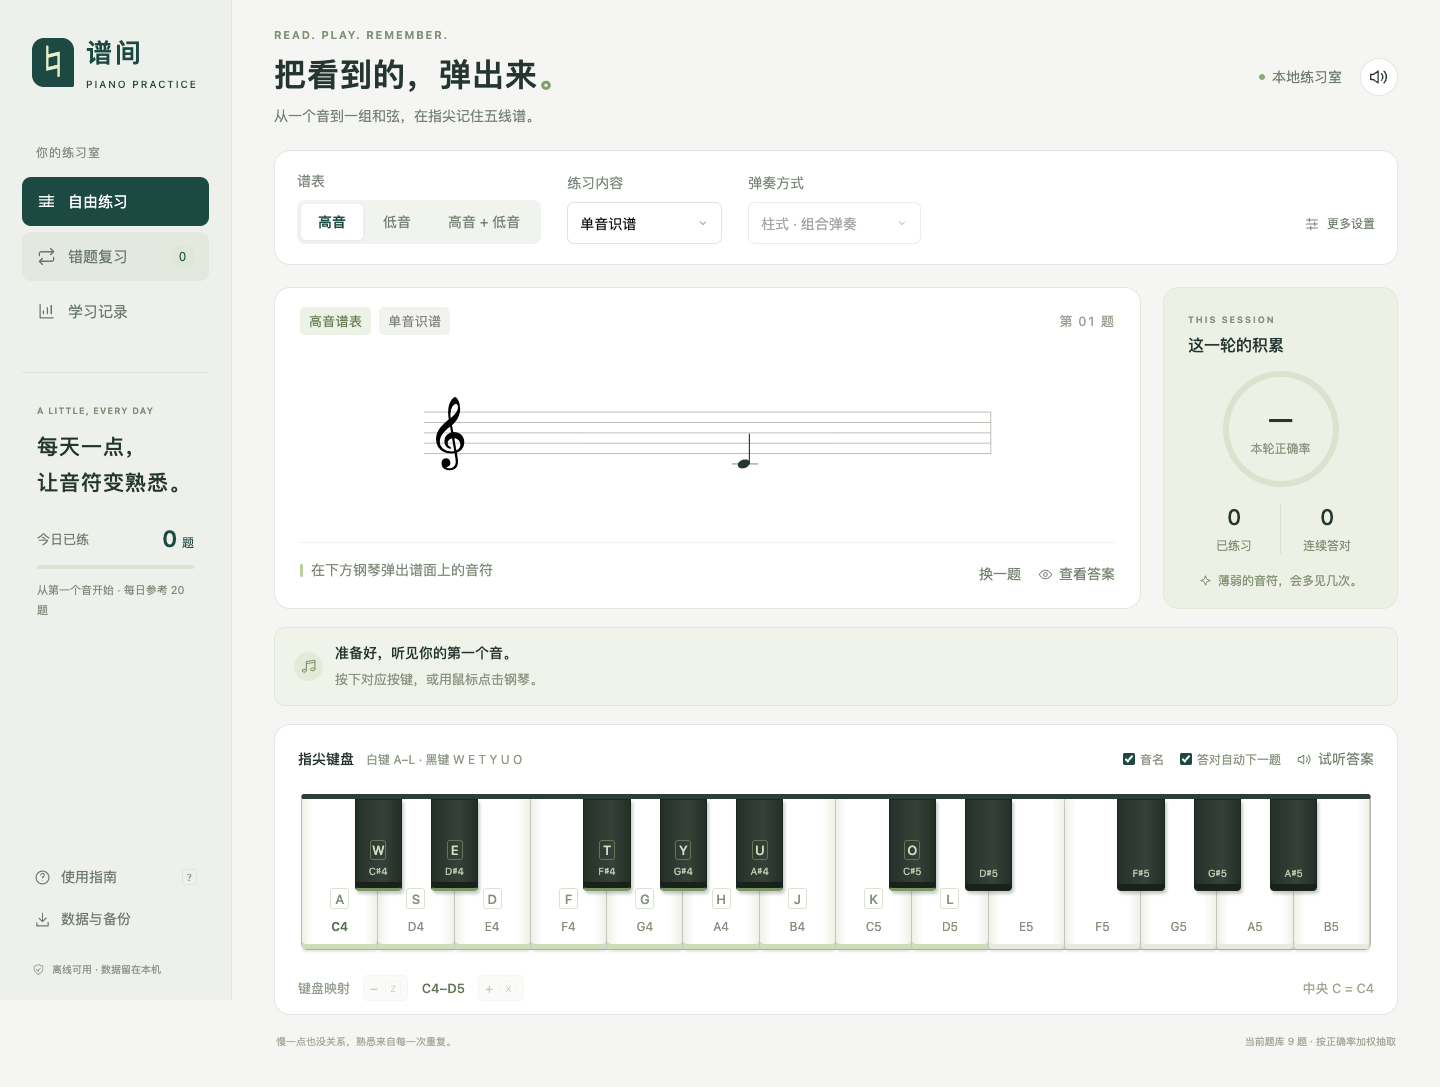
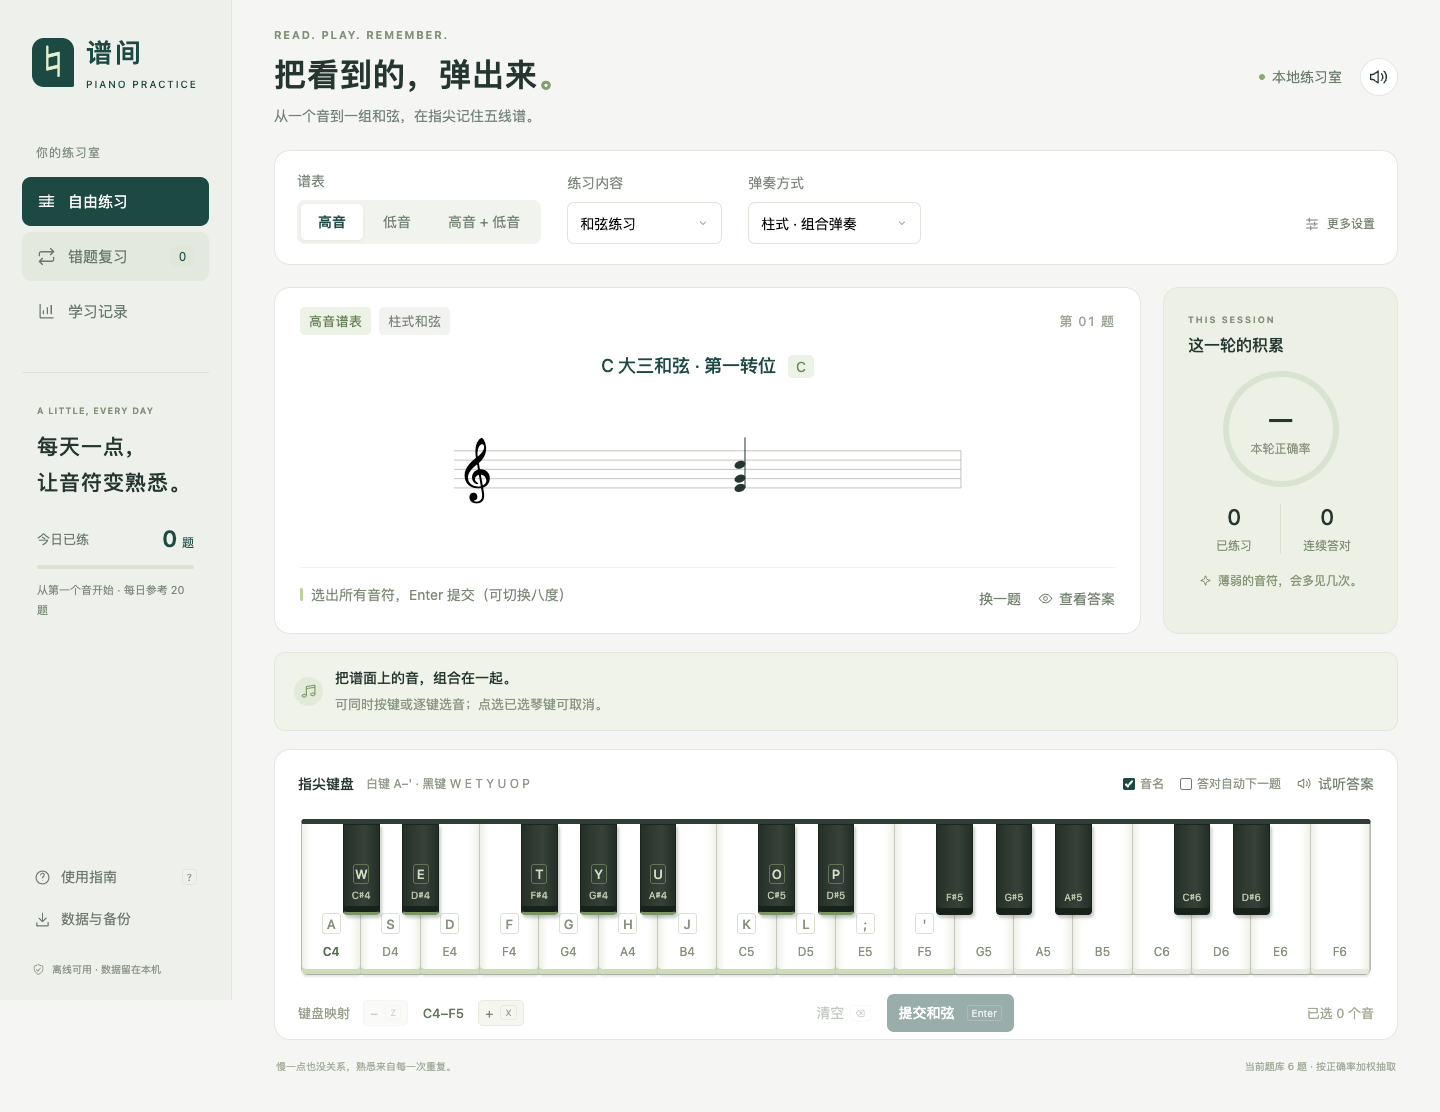
Extend piano keyboard through quote and show chord names

diff --git a/index.html b/index.html
@@ -60,6 +60,7 @@
         <div class="exercise-grid">
           <section class="score-card" aria-label="当前五线谱题目">
             <div class="score-top"><div class="question-tags"><span id="clef-tag" class="tag">高音谱表</span><span id="kind-tag" class="tag muted">单音识谱</span></div><span id="question-number" class="question-number">第 01 题</span></div>
+            <div class="chord-heading" id="chord-heading" hidden><h2 id="chord-name"></h2><span id="chord-symbol"></span></div>
             <div id="score" class="score" role="img" aria-label="请读谱并弹奏"></div>
             <div class="score-bottom"><div class="pattern-description"><span class="small-line"></span><span id="instruction">在下方钢琴弹出谱面上的音符</span></div><div class="score-actions"><button class="text-button" id="skip-button">换一题</button><button class="text-button" id="reveal-button"><span data-icon="eye"></span>查看答案</button></div></div>
           </section>
@@ -72,9 +73,9 @@
         </div>
         <div id="feedback" class="feedback neutral" aria-live="polite" aria-atomic="true"><span class="feedback-icon" id="feedback-icon"></span><div><strong id="feedback-title">准备好，听见你的第一个音。</strong><span id="feedback-detail">按下对应按键，或用鼠标点击钢琴。</span></div><button id="next-button" class="button primary" hidden>下一题 <kbd>Enter</kbd></button></div>
         <section class="piano-card" aria-label="虚拟钢琴">
-          <div class="piano-toolbar"><div><h2>指尖键盘</h2><span class="piano-hint" id="piano-hint">白键 A–L · 黑键 W E T Y U O</span></div><div class="piano-tools"><label class="checkbox"><input type="checkbox" id="labels-check" checked>音名</label><label class="checkbox"><input type="checkbox" id="auto-check" checked>答对自动下一题</label><button class="text-button" id="listen-button" title="试听会展示答案，并计入复习"><span data-icon="volume"></span>试听答案</button></div></div>
+          <div class="piano-toolbar"><div><h2>指尖键盘</h2><span class="piano-hint" id="piano-hint">白键 A–' · 黑键 W E T Y U O P</span></div><div class="piano-tools"><label class="checkbox"><input type="checkbox" id="labels-check" checked>音名</label><label class="checkbox"><input type="checkbox" id="auto-check" checked>答对自动下一题</label><button class="text-button" id="listen-button" title="试听会展示答案，并计入复习"><span data-icon="volume"></span>试听答案</button></div></div>
           <div class="piano-scroll" id="piano-scroll"><div class="piano" id="piano"></div></div>
-          <div class="piano-footer"><div class="octave-switch"><span>键盘映射</span><button id="octave-down" class="key-button" aria-label="降低键盘映射一个八度">− <kbd>Z</kbd></button><strong id="octave-label">C4–D5</strong><button id="octave-up" class="key-button" aria-label="升高键盘映射一个八度">+ <kbd>X</kbd></button></div><div id="chord-controls" class="chord-controls" hidden><button id="clear-button" class="text-button">清空 <kbd>⌫</kbd></button><button id="submit-button" class="button primary small">提交和弦 <kbd>Enter</kbd></button></div><span class="keyboard-note" id="input-progress">中央 C = C4</span></div>
+          <div class="piano-footer"><div class="octave-switch"><span>键盘映射</span><button id="octave-down" class="key-button" aria-label="降低键盘映射一个八度">− <kbd>Z</kbd></button><strong id="octave-label">C4–F5</strong><button id="octave-up" class="key-button" aria-label="升高键盘映射一个八度">+ <kbd>X</kbd></button></div><div id="chord-controls" class="chord-controls" hidden><button id="clear-button" class="text-button">清空 <kbd>⌫</kbd></button><button id="submit-button" class="button primary small">提交和弦 <kbd>Enter</kbd></button></div><span class="keyboard-note" id="input-progress">中央 C = C4</span></div>
         </section>
         <section id="review-list-section" class="review-section" hidden><div class="section-heading"><h2>待复习的音符 <span id="review-list-count">0</span></h2><p>每题连续答对 2 次后移除；中途答错重新计数。</p></div><div id="review-list" class="review-list"></div></section>
         <footer class="workspace-footer"><span>慢一点也没关系，熟悉来自每一次重复。</span><span id="bank-size">自适应出题</span></footer>
@@ -84,7 +85,7 @@
   </div>
   <dialog id="help-dialog" class="modal"><div class="modal-heading"><div><span class="eyebrow">YOUR FIRST NOTES</span><h2>让五线谱，成为肌肉记忆。</h2></div><button class="icon-button close-dialog" aria-label="关闭指南"><span data-icon="close"></span></button></div><div class="help-content">
     <div class="help-row"><span class="help-number">01</span><div><h3>选谱表，看音符</h3><p>高音、低音或双谱表；先从自然单音开始，再加入和弦、转位与黑键。双谱表单音题需要两个音，和弦题为左手低音加右手和弦。</p></div></div>
-    <div class="help-row"><span class="help-number">02</span><div><h3>用电脑键盘，也可以用鼠标</h3><p>白键 <kbd>A S D F G H J K L</kbd>，黑键 <kbd>W E T Y U O</kbd>。<kbd>Z</kbd> / <kbd>X</kbd> 切换映射八度，音名后的数字代表真实八度。钢琴上的描边区域就是当前键盘映射。</p></div></div>
+    <div class="help-row"><span class="help-number">02</span><div><h3>用电脑键盘，也可以用鼠标</h3><p>白键 <kbd>A S D F G H J K L ; '</kbd>，黑键 <kbd>W E T Y U O P</kbd>。上排 <kbd>Q R I [</kbd> 按钢琴位置留空：E–F、B–C 之间没有黑键。分号、引号在中文输入法下也按物理键位识别。<kbd>Z</kbd> / <kbd>X</kbd> 切换映射八度，音名后的数字代表真实八度。钢琴上的描边区域就是当前键盘映射。</p></div></div>
     <div class="help-row"><span class="help-number">03</span><div><h3>柱式选音，分解按顺序</h3><p>柱式和弦可同时按键，也可逐键选音，按 <kbd>Enter</kbd> 提交；点选已选琴键可取消，<kbd>Backspace</kbd> 清空。分解和弦按谱面从左到右逐音弹奏，不考察节拍。阿尔贝蒂为“低、高、中、高”，七和弦会轮换中间音。</p></div></div>
     <div class="help-row"><span class="help-number">04</span><div><h3>让薄弱的地方多出现几次</h3><p>正确率低和未练过的题有更高抽取权重。错误、跳过、查看或试听答案都会进入错题本。每道错题必须连续答对两次才移除，普通练习中答对也会累积。</p></div></div>
     <div class="help-tip">音名采用固定唱名：C = Do，D = Re，E = Mi，F = Fa，G = Sol，A = La，B = Si。声音由本机合成，不需要下载音源。所有练习数据仅存于当前浏览器，请定期备份。</div>

diff --git a/app.js b/app.js
@@ -95,6 +95,7 @@
     $('question-number').textContent = `第 ${String(questionNumber).padStart(2, '0')} 题`;
     $('next-button').hidden = true; $('reveal-button').disabled = !current; $('listen-button').disabled = !current; $('skip-button').disabled = !current;
     $('chord-controls').hidden = !current || !current.block;
+    $('chord-heading').hidden = !current || current.spec.kind !== 'chord';
     $('feedback').className = 'feedback neutral'; $('feedback-icon').innerHTML = icon('note');
     if (!current) {
       $('score').innerHTML = view === 'review' ? `<div class="empty-score">${icon('check')}<h2>这一页，清空了。</h2><p>目前没有待复习的错题。<br>去自由练习，认识更多音符吧。</p><button class="button primary" id="empty-practice">继续自由练习</button></div>` : `<div class="empty-score">${icon('sliders')}<h2>这个组合暂时没有题目</h2><p>请尝试加入变化音，或更换和弦类型、转位。<br>三音和弦没有第三转位。</p></div>`;
@@ -107,6 +108,8 @@
       renderPiano(); updateStats(); return;
     }
     const q = current;
+    $('chord-name').textContent = q.spec.kind === 'chord' ? q.title : '';
+    $('chord-symbol').textContent = q.chordSymbol || '';
     const range = M.keyboardRange(q);
     activeBase = range.base; pianoMin = range.min; pianoMax = range.max;
     $('clef-tag').textContent = clefName(q.spec.clef);
@@ -180,8 +183,7 @@
     } else for (const voice of q.voices) drawNotes(voice.notes, voice.clef, width * .56);
     svg += '</g></svg>';
     $('score').innerHTML = svg;
-    // The accessible description states the task, without revealing the answer.
-    $('score').setAttribute('aria-label', `${clefName(q.spec.clef)}，${q.spec.kind === 'single' ? '单音识谱' : M.PATTERNS[q.spec.pattern]}，共 ${q.block ? q.notes.length : q.sequence.length} 个音。请读谱，在钢琴输入。`);
+    $('score').setAttribute('aria-label', `${clefName(q.spec.clef)}，${q.title}，${q.spec.kind === 'single' ? '单音识谱' : M.PATTERNS[q.spec.pattern]}，共 ${q.block ? q.notes.length : q.sequence.length} 个音。请读谱，在钢琴输入。`);
   }
   function renderPiano() {
     const whites = [];
@@ -196,9 +198,9 @@
     }
     $('piano').innerHTML = html;
     $('piano').style.minWidth = Math.max(560, whites.length * 38) + 'px';
-    $('octave-label').textContent = `${M.name(M.fromMidi(activeBase))}–${M.name(M.fromMidi(activeBase + 14))}`;
+    $('octave-label').textContent = `${M.name(M.fromMidi(activeBase))}–${M.name(M.fromMidi(activeBase + M.KEYBOARD_SPAN))}`;
     $('octave-down').disabled = activeBase <= pianoMin;
-    $('octave-up').disabled = activeBase + 26 > pianoMax;
+    $('octave-up').disabled = activeBase + 12 + M.KEYBOARD_SPAN > pianoMax;
     updatePianoHighlights();
     const selectedOctave = $('piano').querySelector(`[data-midi="${activeBase}"]`);
     if (selectedOctave) {
@@ -252,7 +254,7 @@
   function clearInput() { if (answered) return; selected.clear(); stepIndex = 0; renderScore(); updatePianoHighlights(); if (current) { $('feedback-title').textContent = '已清空，重新试一遍。'; $('feedback-detail').textContent = current.block ? '选出所有音符，按 Enter 提交。' : '从谱面第一个音重新开始。'; } }
   function shiftOctave(delta) {
     const value = activeBase + delta * 12;
-    if (value < pianoMin || value + 14 > pianoMax) return;
+    if (value < pianoMin || value + M.KEYBOARD_SPAN > pianoMax) return;
     // Keep the MIDI bound at keydown, so a held key releases the original note.
     activeBase = value; renderPiano();
   }
@@ -363,7 +365,7 @@
   document.addEventListener('keydown', event => {
     if (event.metaKey || event.ctrlKey || event.altKey || event.repeat || document.querySelector('dialog[open]')) return;
     if (['INPUT', 'SELECT', 'TEXTAREA'].includes(document.activeElement.tagName)) return;
-    const key = event.key.toLowerCase();
+    const key = M.eventKey(event.code, event.key);
     if (key === '?') { event.preventDefault(); showDialog('help-dialog'); return; }
     if (view === 'progress') return;
     // Enter/Space must retain native semantics on focused buttons.

diff --git a/music.js b/music.js
@@ -80,8 +80,10 @@
     } else sequence = all;
     const canonical = { clef, kind, rootStep, accidental, quality: kind === 'chord' ? quality : 'major', inversion: kind === 'chord' ? inversion : 0, pattern, ...(clef === 'grand' && kind === 'single' ? { upperStep, upperAccidental } : {}) };
     const id = Object.values(canonical).join(':');
-    const title = kind === 'single' ? (clef === 'grand' ? '双手单音' : '单音识谱') : `${name(root).replace(/\d/g, '')}${CHORDS[quality].symbol} · ${INVERSIONS[inversion]}`;
-    return { id, spec: canonical, voices, notes: all, sequence, block: pattern === 'block' && all.length > 1, title };
+    const rootName = name(root).replace(/\d/g, '');
+    const chordSymbol = kind === 'chord' ? `${rootName}${CHORDS[quality].symbol}` : null;
+    const title = kind === 'single' ? (clef === 'grand' ? '双手单音' : '单音识谱') : `${rootName} ${CHORDS[quality].name} · ${INVERSIONS[inversion]}`;
+    return { id, spec: canonical, voices, notes: all, sequence, block: pattern === 'block' && all.length > 1, title, chordSymbol };
   }
   function bank(input) {
     const s = settings(input), out = [];
@@ -134,8 +136,16 @@
     for (let i = 0; i < available.length; i++) { value -= weights[i]; if (value <= 0) return available[i]; }
     return available.at(-1);
   }
-  const WHITE_KEYS = ['a', 's', 'd', 'f', 'g', 'h', 'j', 'k', 'l'];
-  const BLACK_KEYS = { w: 1, e: 3, t: 6, y: 8, u: 10, o: 13 };
+  const WHITE_KEYS = ['a', 's', 'd', 'f', 'g', 'h', 'j', 'k', 'l', ';', "'"];
+  // Q, R, I and [ align with gaps: no black key before C or between E/F and B/C.
+  const BLACK_KEYS = { w: 1, e: 3, t: 6, y: 8, u: 10, o: 13, p: 15 };
+  const KEYBOARD_SPAN = NATURAL[(WHITE_KEYS.length - 1) % 7] + 12 * Math.floor((WHITE_KEYS.length - 1) / 7);
+  function eventKey(code, key = '') {
+    if (/^Key[A-Z]$/.test(code)) return code.slice(3).toLowerCase();
+    const punctuation = { Semicolon: ';', Quote: "'", BracketLeft: '[' };
+    if (Object.hasOwn(punctuation, code)) return punctuation[code];
+    return ({ '；': ';', ':': ';', '：': ';', '‘': "'", '’': "'", '“': "'", '”': "'", '"': "'", '【': '[' })[key] || key.toLowerCase();
+  }
   function keyMidi(key, base) {
     const idx = WHITE_KEYS.indexOf(key.toLowerCase());
     return idx >= 0 ? base + NATURAL[idx % 7] + 12 * Math.floor(idx / 7) : Object.hasOwn(BLACK_KEYS, key.toLowerCase()) ? base + BLACK_KEYS[key.toLowerCase()] : null;
@@ -148,9 +158,9 @@
   function keyboardRange(q) {
     const base = q.spec.clef === 'bass' ? 36 : 60;
     const min = q.spec.clef === 'treble' ? 60 : 36;
-    // Include the complete A–L mapping at the highest needed octave.
-    const max = Math.min(107, Math.max(min + 23, base + 14, Math.floor(q.notes.at(-1).midi / 12) * 12 + 14));
+    // Include the entire mapped keyboard at the highest needed octave.
+    const max = Math.min(107, Math.max(min + 23, base + KEYBOARD_SPAN, Math.floor(q.notes.at(-1).midi / 12) * 12 + KEYBOARD_SPAN));
     return { base, min, max };
   }
-  return { LETTERS, NATURAL, CHORDS, FAMILIES, INVERSIONS, PATTERNS, DEFAULTS, note, fromMidi, name, chord, settings, makeQuestion, bank, pick, weight, keyMidi, exactChord, keyboardRange, WHITE_KEYS, BLACK_KEYS };
+  return { LETTERS, NATURAL, CHORDS, FAMILIES, INVERSIONS, PATTERNS, DEFAULTS, note, fromMidi, name, chord, settings, makeQuestion, bank, pick, weight, eventKey, keyMidi, exactChord, keyboardRange, WHITE_KEYS, BLACK_KEYS, KEYBOARD_SPAN };
 });

diff --git a/tests/music.test.js b/tests/music.test.js
@@ -42,10 +42,25 @@ test('双谱表同时保留低音与高音，分解覆盖两手全部音', () =>
   assert.deepEqual(new Set(grand.sequence.map(n => n.midi)), new Set(grand.notes.map(n => n.midi)));
   const single = M.bank({ clef: 'grand' }); assert.equal(single.length, 81); assert.equal(single[0].block, true);
 });
-test('物理键盘 A–L 和 W–O 按半音正确映射', () => {
-  assert.deepEqual(M.WHITE_KEYS.map(k => M.keyMidi(k, 60)), [60, 62, 64, 65, 67, 69, 71, 72, 74]);
-  assert.deepEqual(Object.keys(M.BLACK_KEYS).map(k => M.keyMidi(k, 60)), [61, 63, 66, 68, 70, 73]);
-  assert.equal(M.keyMidi('r', 60), null); assert.equal(M.keyMidi('A', 36), 36);
+test('扩展白键到分号和引号，黑键按钢琴位置保留空位', () => {
+  assert.deepEqual(M.WHITE_KEYS.map(k => M.keyMidi(k, 60)), [60, 62, 64, 65, 67, 69, 71, 72, 74, 76, 77]);
+  assert.deepEqual(Object.keys(M.BLACK_KEYS).map(k => M.keyMidi(k, 60)), [61, 63, 66, 68, 70, 73, 75]);
+  for (const key of ['q', 'r', 'i', '[']) assert.equal(M.keyMidi(key, 60), null);
+  assert.equal(M.keyMidi('A', 36), 36); assert.equal(M.KEYBOARD_SPAN, 17);
+});
+test('中文输入法和 Shift 标点仍按物理键位输入', () => {
+  assert.equal(M.eventKey('Semicolon', '；'), ';'); assert.equal(M.eventKey('Semicolon', ':'), ';');
+  assert.equal(M.eventKey('Quote', '‘'), "'"); assert.equal(M.eventKey('Quote', '"'), "'");
+  assert.equal(M.eventKey('KeyP', 'Process'), 'p'); assert.equal(M.eventKey('KeyA', 'A'), 'a');
+  assert.equal(M.eventKey('', '’'), "'"); assert.equal(M.eventKey('', '；'), ';');
+});
+test('和弦中文名称、符号和转位均明确显示，已有错题 ID 保持兼容', () => {
+  assert.equal(q.title, 'C 大三和弦 · 原位'); assert.equal(q.chordSymbol, 'C');
+  assert.equal(q.id, 'treble:chord:28:0:major:0:block');
+  const seventh = M.makeQuestion({ ...q.spec, quality: 'maj7', inversion: 3 });
+  assert.equal(seventh.title, 'C 大七和弦 · 第三转位'); assert.equal(seventh.chordSymbol, 'Cmaj7');
+  const minor = M.makeQuestion({ ...q.spec, rootStep: 34, accidental: -1, quality: 'minor', inversion: 1 });
+  assert.equal(minor.title, 'B♭ 小三和弦 · 第一转位'); assert.equal(minor.chordSymbol, 'B♭m');
 });
 test('完整题库谱面拼写、ID、排序和序列不变量', () => {
   for (const clef of ['treble', 'bass', 'grand']) for (const kind of ['single', 'chord', 'mixed']) for (const accidentalMode of ['natural', 'chromatic']) {
@@ -58,7 +73,7 @@ test('完整题库谱面拼写、ID、排序和序列不变量', () => {
       assert.ok(q.sequence.every(n => q.notes.some(t => t.midi === n.midi)));
       assert.deepEqual(new Set(q.sequence.map(n => n.midi)), new Set(q.notes.map(n => n.midi)));
       const range = M.keyboardRange(q), reachable = new Set();
-      for (let base = range.min; base + 14 <= range.max; base += 12) for (const key of [...M.WHITE_KEYS, ...Object.keys(M.BLACK_KEYS)]) reachable.add(M.keyMidi(key, base));
+      for (let base = range.min; base + M.KEYBOARD_SPAN <= range.max; base += 12) for (const key of [...M.WHITE_KEYS, ...Object.keys(M.BLACK_KEYS)]) reachable.add(M.keyMidi(key, base));
       assert.ok(q.notes.every(n => reachable.has(n.midi)), '每个音都必须能通过 Z/X 和电脑键盘弹出');
       if (accidentalMode === 'natural') assert.ok(q.notes.every(n => n.accidental === 0));
     }

diff --git a/styles.css b/styles.css
@@ -13,3 +13,5 @@ main{padding-top:28px}.page-heading{margin-bottom:24px}.score{min-height:180px;o
 @media(min-width:1600px){.score svg{height:225px;min-height:225px;max-height:225px}.score.is-grand svg{height:290px;min-height:290px;max-height:290px}.piano{height:180px}}
 @media(max-width:1200px){.primary-settings{gap:18px}.primary-settings>.setting{flex:1}.primary-settings>.setting:first-child{flex:2}.primary-settings .advanced-toggle{font-size:12px}.piano-toolbar{align-items:start}.piano-tools{flex-wrap:wrap;justify-content:end}.session-card{padding-left:15px;padding-right:15px}.score-bottom{flex-wrap:wrap}}
 @media(max-width:700px){main{padding-top:23px}.sidebar{gap:6px;padding:12px}.brand{white-space:nowrap;flex-shrink:0;font-size:19px;letter-spacing:1px}.sidebar nav{gap:3px;min-width:0}.nav-item{white-space:nowrap;font-size:12px;gap:4px;padding:9px 8px}.nav-item .icon{display:none}.nav-count{font-size:10px}.score{min-height:180px}.score svg{height:190px;min-height:190px;max-height:190px}.score.is-grand svg{height:275px;min-height:275px;max-height:275px}.score-bottom{gap:8px}.score-actions{margin-left:auto;gap:14px}.score-bottom .text-button,.pattern-description{font-size:12px}.setting label{font-size:13px}.setting select,.segmented button{font-size:13px}.primary-settings>.setting:first-child{flex-basis:100%}.primary-settings{gap:15px 9px}.primary-settings .advanced-toggle{font-size:0}.piano-hint{font-size:11px}.piano-toolbar{align-items:start;gap:10px}.piano-tools .text-button,.checkbox{font-size:11px}.piano-toolbar>div:first-child{display:block}.piano-tools{gap:8px}.feedback strong{font-size:13px}.feedback div>span{font-size:12px}.feedback .button{font-size:12px}.piano{height:170px}.score-card{padding-top:17px}.section-heading p{font-size:12px}.piano-footer{padding-top:12px}.review-list{grid-template-columns:1fr}.review-item strong{font-size:14px}.review-item small{font-size:12px}.octave-switch>span,.key-button,.octave-switch strong{font-size:12px}}
+.chord-heading{display:flex;align-items:center;justify-content:center;gap:12px;flex-wrap:wrap;margin:17px 0 0;text-align:center}.chord-heading h2{font-size:18px;font-weight:500;line-height:1.6;margin:0;color:var(--green)}.chord-heading>span{font-size:14px;background:#edf2e7;color:#698450;border-radius:5px;padding:3px 8px}.chord-heading:not([hidden])+.score svg{height:170px;min-height:170px;max-height:170px}.chord-heading:not([hidden])+.score.is-grand svg{height:255px;min-height:255px;max-height:255px}
+@media(max-width:700px){.chord-heading{gap:8px;margin-top:15px}.chord-heading h2{font-size:16px}.chord-heading>span{font-size:13px}}

diff --git a/README.md b/README.md
@@ -22,6 +22,7 @@ git clone https://github.com/3365538768/staff-piano-trainer.git
 - **单音**：入门九个白键范围；进阶两个八度，可加入半音。
 - **和弦**：大三、小三、增三、减三、sus2、sus4、属七、大七、小七、半减七、减七。
 - **转位**：原位、第一/第二转位，七和弦还支持第三转位。例如 C4–E4–G4、E4–G4–C5、G4–C5–E5。
+- **和弦名称**：题目直接显示中文名称、转位及常用符号，例如“C 大三和弦 · 第一转位”和“Cmaj7”。复习与学习记录也显示完整名称。
 - **弹法**：柱式组合、上行分解、下行分解、阿尔贝蒂低音，以及随机混合。分解题按谱面从左到右依次弹奏，**不考察节奏与时值**。阿尔贝蒂三和弦采用“低–高–中–高”，重复两次；四音和弦轮换两个中间音，双谱表五音题覆盖所有中间音。
 - **正确率驱动**：弱项、未练题与待复习题更常出现；有其他候选时避免连续抽到同一题。
 - **错题复习**：每道错题保留完整的谱表、音高、转位和弹法，只有**连续两次正确**才移除；中途答错重新计数。普通练习中的正确也会累积。查看/试听答案和跳过按未掌握记录。
@@ -33,8 +34,8 @@ git clone https://github.com/3365538768/staff-piano-trainer.git
 
 | 操作 | 按键 |
 | --- | --- |
-| 白键 C D E F G A B C D | A S D F G H J K L |
-| 黑键 C♯ D♯ F♯ G♯ A♯ C♯ | W E T Y U O |
+| 白键 C D E F G A B C D E F | A S D F G H J K L ; ' |
+| 黑键 C♯ D♯ F♯ G♯ A♯ C♯ D♯ | W E T Y U O P |
 | 降低 / 升高映射八度 | Z / X |
 | 提交柱式和弦 / 答题后下一题 | Enter |
 | 清空已选和弦 / 重来分解输入 | Backspace |
@@ -42,6 +43,8 @@ git clone https://github.com/3365538768/staff-piano-trainer.git
 | 使用指南 | ? |
 
 钢琴描边区域和琴键字母表示当前电脑键盘映射。音名后的数字是实际八度，中央 C 是 C4，**不同八度不会视为同一个答案**。每题自动选择映射八度，不会直接标出答案；跨八度或双手题可通过 Z/X 切换，也能直接点击全部琴键。
+
+白键覆盖 A 到引号键，初始高音映射为 C4–F5。上排 Q 到左方括号区域按真实钢琴位置对应：**Q、R、I、[ 留空**（E–F、B–C 之间没有黑键），其余黑键按 W E T Y U O P 演奏。分号和引号优先按物理键位识别，因此中文分号、弯引号或 Shift 后的符号也能正确弹奏。
 
 柱式和弦支持同时按键或逐键选音，选齐后按 Enter（也可点“提交和弦”）。鼠标再点已选琴键可取消，Backspace 全部清空。这兼容普通电脑键盘的按键冲突，也允许在不同八度逐键组合。分解模式则按谱面顺序逐个输入，不需要提交。电脑键盘的物理排列不能完全模拟钢琴指法。
 
